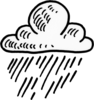
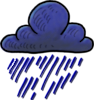
Regen in Farbe

diff --git a/components/openweathermap/rendering-graph.js b/components/openweathermap/rendering-graph.js
@@ -395,7 +395,7 @@ img/weather/wolke_wind.small.png
         curImage.source += "wolke_regen_2.small.png";
         break;
       case '10':   // "rain"
-        curImage.source += "wolke_regen.small.png";
+        curImage.source += "wolke_regen.small_animiert.gif";
         break;
       case '11':   // "thunderstorm"
         curImage.source += "blitz.small.png";
